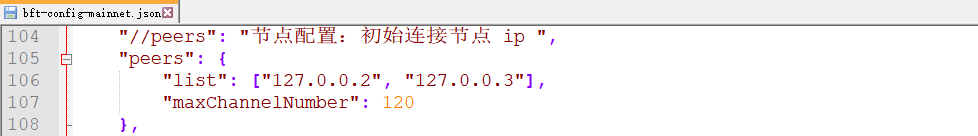
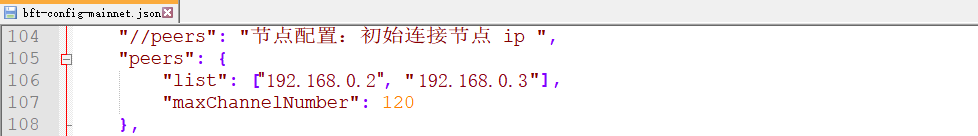
修改ip

Changed region(s): [[0.4294, 0.5294, 0.5828, 0.6471], [0.2454, 0.5294, 0.3988, 0.6471]]

diff --git a/docs/02.api/1.3.md b/docs/02.api/1.3.md
@@ -24,7 +24,7 @@
 | dappid                  | 可选          | 事件所属的 dappid，大写字母或数字，8 个字符，默认为空                                                                                                                                                                               |
 | lns                     | 可选          | 事件所属的链域名，2-1024 个字符，每级域名最大长度为 128 个字符，一级域名只能是小写字母组成，二级及以上开头及结尾只能由小写字母或数字组成，中间可以包含下划线，根域名必须是本链链名，可选，默认为空                                  |
 | tpowDifficulty          | 可选          | 事件的pow难度值，由自然数组成，默认使用链上难度                                                                                                                                                                                     |
-| sourceIP                | 可选          | 事件的来源IP，IPv4或者IPv6，不包含头尾(例如: 127.0.0.1)，默认为空                                                                                                                                                                   |
+| sourceIP                | 可选          | 事件的来源IP，IPv4或者IPv6，不包含头尾(例如: 192.168.0.1)，默认为空                                                                                                                                                                   |
 | **返回参数**            |               |                                                                                                                                                                                                                                     |
 | **参数名**              | **必填/可选** | **参数说明**                                                                                                                                                                                                                        |
 | trs                     |               | 完整的事件，JSON对象                                                                                                                                                                                                                |

diff --git a/docs/01.guide/02.deploy.md b/docs/01.guide/02.deploy.md
@@ -26,7 +26,7 @@
 
 #### 安装
 
-在三个不同节点（节点IP分别为`127.0.0.1`，`127.0.0.2`，`127.0.0.3`）上按照手册中的安装步骤分别安装BCF.exe。安装成功之后双击BCF.exe可运行节点。若提示未经授权，则根据[\<节点申请授权\>](/01.guide/01.install.html#节点授权申请)，完成节点授权后即可运行节点。
+在三个不同节点（节点IP分别为`192.168.0.1`，`192.168.0.2`，`192.168.0.3`）上按照手册中的安装步骤分别安装BCF.exe。安装成功之后双击BCF.exe可运行节点。若提示未经授权，则根据[\<节点申请授权\>](/01.guide/01.install.html#节点授权申请)，完成节点授权后即可运行节点。
 
 #### 配置
 
@@ -40,7 +40,7 @@
    
    配置文件路径：`/安装目录/conf/bft-config-mainnet.json`(若用户配置的是测试网络，则修改`bft-config-testnet.json`文件)。在peers的list中配置需要连接的节点ip，这样在运行时会自动与该节点同步。
    
-   例如本节点(`127.0.0.1`)需要同步的其他2个节点（`127.0.0.2`，`127.0.0.3`），可按照下图进行配置。
+   例如本节点(`192.168.0.1`)需要同步的其他2个节点（`192.168.0.2`，`192.168.0.3`），可按照下图进行配置。
    
    ![](./media/b1a01d19c2df459055cbdffbb66e6df6.png)
 
@@ -247,7 +247,7 @@ ansible bfchainnode -m shell -i /data/ansible_dir/bfchainnodehosts -a 'command'
 | bfchainnode001                              | 别名                     |
 | ------------------------------------------- | ---------------------- |
 | `ansible_ssh_port=18899`                      | 节点登录ssh端口号             |
-| `ansible_ssh_host=127.0.0.1`                | 节点可ssh登陆的内网ip          |
+| `ansible_ssh_host=192.168.0.1`                | 节点可ssh登陆的内网ip          |
 | `ansible_ssh_user=user1`                      | 节点以该用户ssh登录            |
 | `ansible_become=true`                        | 是否启用 sudo 权限           |
 | `ansible_become_user=root`                    | 切换sudo后执行命令使用的用户       |

diff --git a/docs/02.api/2.4.md b/docs/02.api/2.4.md
@@ -19,7 +19,7 @@ export class BFChainPcSdkTest {
 
     async execute() {
 
-        this.__sdk.init({ ip: "127.0.0.1", port: 19003, timeout: 10000 });
+        this.__sdk.init({ ip: "192.168.0.1", port: 19003, timeout: 10000 });
 
         let promises: Promise<any>[] = [];
 

diff --git a/docs/02.api/2.2.md b/docs/02.api/2.2.md
@@ -103,7 +103,7 @@ data)函数，调用不同的接口。
 
 (async () => {
 
-    const url = "127.0.0.1:19003";
+    const url = "192.168.0.1:19003";
 
     const websocketConnectHelp = new
         WebsocketConnectHelp(url);//实例化一个websocket连接帮助类
